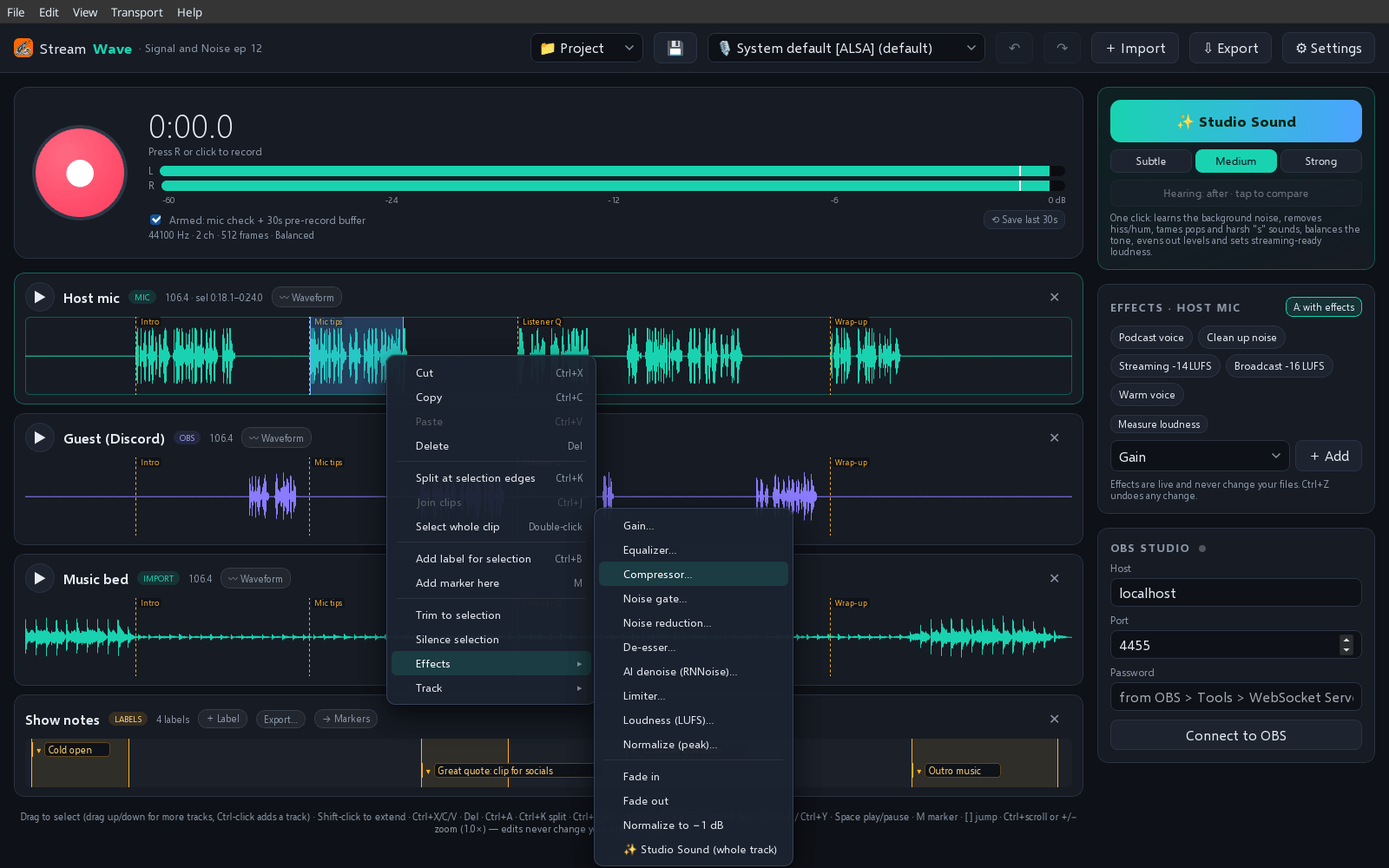
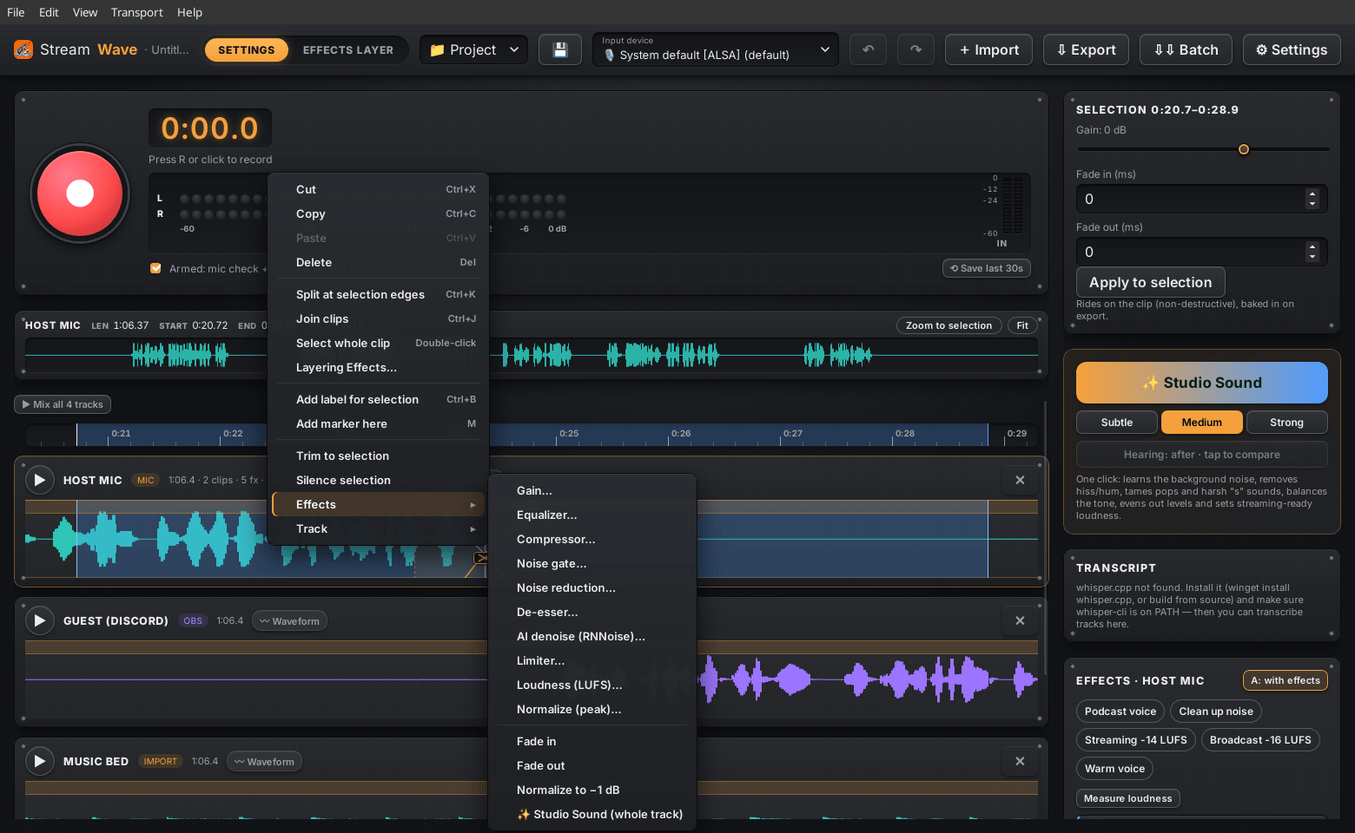
0.11.0: version bump; CHANGELOG, README, GUIDE and site for the new look, ruler, preview, Effects Layer workspace and crossfades (with limits); new screenshots

Changed region(s): [[0.0, 0.0312, 0.9846, 1.0], [0.0, 0.0, 0.2769, 0.0938], [0.3077, 0.0312, 0.3385, 0.0625]]

diff --git a/docs/index.html b/docs/index.html
@@ -177,12 +177,15 @@
     <div class="card"><div class="ico">🎥</div><h3>OBS sync</h3><p>Record, pause and stop together. Scene changes become markers. Multi-track OBS recordings import as separate tracks.</p></div>
     <div class="card"><div class="ico">🪄</div><h3>Studio Sound</h3><p>One click analyses your voice and builds a clean chain: denoise, EQ, de-ess, compress, -16 LUFS. Fully editable.</p></div>
     <div class="card"><div class="ico">⏪</div><h3>Never miss a take</h3><p>A rolling buffer keeps the last 60 seconds. Said something great before hitting record? Save it.</p></div>
-    <div class="card"><div class="ico">🎛</div><h3>Live effects</h3><p>Move a slider and hear it instantly. Exports use the same engine, so the file matches what you heard.</p></div>
+    <div class="card"><div class="ico">🎛</div><h3>Live effects</h3><p>Turn a knob and hear it instantly. Exports use the same engine, so the file matches what you heard.</p></div>
     <div class="card"><div class="ico">🛟</div><h3>Crash-safe recording</h3><p>Takes are written continuously and repaired after a crash or power cut. Unplugged mic? Your take is kept.</p></div>
     <div class="card"><div class="ico">📦</div><h3>All open formats</h3><p>WAV, FLAC, MP3, Ogg, Opus, AAC, AIFF and audio from MP4/MKV in. WAV, FLAC, MP3, Opus, Ogg and more out, with tags.</p></div>
     <div class="card"><div class="ico">🤝</div><h3>Shared mic, always</h3><p>Never takes exclusive control of your microphone. OBS, Discord and your browser keep working alongside.</p></div>
     <div class="card"><div class="ico">🩺</div><h3>Live mic check</h3><p>Warnings for clipping, too quiet, a dead channel or mains hum, before they ruin a recording.</p></div>
     <div class="card"><div class="ico">✂</div><h3>Non-destructive editing</h3><p>Cut, copy, paste with full undo. Originals never change. Projects autosave and recover after a crash.</p></div>
+    <div class="card"><div class="ico">🧩</div><h3>Effects Layer workspace <small>new in 0.11</small></h3><p>A big effects editor: the track's effects and the clip's layers in a collapsible list, colour-coded modules with knobs.</p></div>
+    <div class="card"><div class="ico">🔀</div><h3>Crossfades <small>new in 0.11</small></h3><p>Blend neighbouring clips at a cut, equal power or linear, without moving anything. Plus drag-to-fade handles.</p></div>
+    <div class="card"><div class="ico">📏</div><h3>Ruler &amp; preview <small>new in 0.11</small></h3><p>A zoom-aware time ruler and a preview of the whole track with Zoom to selection. All in a new hardware look.</p></div>
     <div class="card"><div class="ico">📥</div><h3>Multi-file import <small>new in 0.10</small></h3><p>Drop several files at once: put them one after another on a track, or one track each, lined up. One undo.</p></div>
     <div class="card"><div class="ico">↔</div><h3>Move clips <small>new in 0.10</small></h3><p>Drag clips along the timeline or onto another track, with a ghost, snapping and an exact time readout. No drift.</p></div>
     <div class="card"><div class="ico">◧</div><h3>Layering Effects <small>new in 0.10</small></h3><p>Give one clip its own effect stack. Reorder, bypass and edit the layers, heard live and exported identically.</p></div>
@@ -198,36 +201,48 @@
 
 <section id="shots" class="shots"><div class="wrap">
   <h2>See it in action</h2>
-  <p class="sub">Real screenshots of StreamWave 0.8.3 on Linux, with a demo podcast episode (self-generated voice and music).</p>
+  <p class="sub">Real screenshots of StreamWave 0.11.0 on Linux, with a demo podcast episode (self-generated voice and music).</p>
   <figure class="shot">
-    <a href="screenshots/01-main.png"><img src="screenshots/01-main.png" alt="StreamWave main window: the big record button with live input meters, a podcast episode with Host mic, Guest (Discord) and Music bed tracks, chapter markers, a Show notes label track, and the Studio Sound, effects and OBS panels on the right" width="1600" height="1000" loading="lazy" decoding="async"></a>
-    <figcaption><b>Record, edit, clean up.</b> One big button to record with live meters, a multi-track timeline with markers and a label track for show notes, and Studio Sound, live effects and OBS sync one glance away.</figcaption>
+    <a href="screenshots/01-main.png"><img src="screenshots/01-main.png" alt="StreamWave main window in the new hardware look: the big record button in a bezel with LED input meters, the selected-audio preview strip, a time ruler with chapter markers, Host mic, Guest (Discord) and Music bed tracks with a crossfade at a cut, and the Effects rack with colour-coded modules on the right" width="1560" height="960" loading="lazy" decoding="async"></a>
+    <figcaption><b>Record, edit, clean up.</b> One big button to record with LED meters, a preview of the selected audio, a time ruler over a multi-track timeline with markers and crossfades, and Studio Sound, live effects and OBS sync one glance away.</figcaption>
   </figure>
   <div class="carousel" role="region" aria-roledescription="carousel" aria-label="More StreamWave screenshots">
     <button class="cbtn prev" type="button" aria-label="Previous screenshot">‹</button>
     <div class="track" tabindex="0" aria-label="Screenshots, scroll sideways for more">
-      <figure class="shot" role="group" aria-roledescription="slide" aria-label="1 of 6">
-        <a href="screenshots/02-context-menu.png"><img src="screenshots/02-context-menu.png" alt="Right-click menu on a selection in the Host mic track, with the Effects submenu open listing Gain, Equalizer, Compressor, Noise gate, Noise reduction, De-esser, AI denoise, Limiter, Loudness, Normalize, fades and Studio Sound" width="1600" height="1000" loading="lazy" decoding="async"></a>
-        <figcaption><b>Right-click anything.</b> Cut, split, label or apply an effect straight to the selection.</figcaption>
+      <figure class="shot" role="group" aria-roledescription="slide" aria-label="1 of 9">
+        <a href="screenshots/08-effects-layer.png"><img src="screenshots/08-effects-layer.png" alt="Effects Layer workspace: a list of the Host mic track's effects and the clip's layers on the left, a signal-flow strip, and the Equalizer module with colour-coded knobs for low cut, shelves and three bands" width="1560" height="960" loading="lazy" decoding="async"></a>
+        <figcaption><b>Effects Layer workspace.</b> Every effect of the track and the clip under the cursor, with big colour-coded knobs, heard live.</figcaption>
       </figure>
-      <figure class="shot" role="group" aria-roledescription="slide" aria-label="2 of 6">
-        <a href="screenshots/03-spectrogram.png"><img src="screenshots/03-spectrogram.png" alt="Host mic and Guest tracks switched to spectrogram view, zoomed in, showing speech harmonics and a low hum band, with chapter markers above" width="1600" height="1000" loading="lazy" decoding="async"></a>
-        <figcaption><b>Spectrogram view.</b> Spot hum, hiss and plosives at a glance, with a log or linear scale.</figcaption>
+      <figure class="shot" role="group" aria-roledescription="slide" aria-label="2 of 9">
+        <a href="screenshots/09-crossfade.png"><img src="screenshots/09-crossfade.png" alt="Zoomed timeline with a crossfade between two Host mic clips: the fade curves drawn across the cut and the crossfade panel open with a Length knob at 1252 ms, the curve set to Equal power and a Remove crossfade button" width="1560" height="960" loading="lazy" decoding="async"></a>
+        <figcaption><b>Crossfades.</b> Drag or click the handle at a cut: equal power or linear, centred on the cut, plays exactly as it exports.</figcaption>
       </figure>
-      <figure class="shot" role="group" aria-roledescription="slide" aria-label="3 of 6">
-        <a href="screenshots/04-effects.png"><img src="screenshots/04-effects.png" alt="Effects panel for the Host mic track after choosing the Podcast voice preset: Equalizer, Noise gate, Compressor (expanded, with threshold, ratio, attack, release and makeup sliders), Loudness and Limiter" width="1600" height="1000" loading="lazy" decoding="async"></a>
+      <figure class="shot" role="group" aria-roledescription="slide" aria-label="3 of 9">
+        <a href="screenshots/02-context-menu.png"><img src="screenshots/02-context-menu.png" alt="Right-click menu on a selection in the Host mic track, with the Effects submenu open listing Gain, Equalizer, Compressor, Noise gate, Noise reduction, De-esser, AI denoise, Limiter, Loudness, Normalize, fades and Studio Sound" width="1560" height="960" loading="lazy" decoding="async"></a>
+        <figcaption><b>Right-click anything.</b> Cut, split, label, open Layering Effects or apply an effect straight to the selection.</figcaption>
+      </figure>
+      <figure class="shot" role="group" aria-roledescription="slide" aria-label="4 of 9">
+        <a href="screenshots/10-effect-dialog.png"><img src="screenshots/10-effect-dialog.png" alt="Compressor dialog for a selection with knobs for threshold, ratio, attack, release and makeup, and Apply, Add to track effects instead and Cancel buttons" width="1560" height="960" loading="lazy" decoding="async"></a>
+        <figcaption><b>Knobs, not sliders.</b> Drag, scroll or use the arrow keys; Shift for fine steps, double-click to reset.</figcaption>
+      </figure>
+      <figure class="shot" role="group" aria-roledescription="slide" aria-label="5 of 9">
+        <a href="screenshots/04-effects.png"><img src="screenshots/04-effects.png" alt="Effects rack for the Host mic track after choosing the Podcast voice preset: Equalizer, Noise gate, Compressor (expanded, with threshold, ratio, attack, release and makeup knobs), Loudness and Limiter, each in its own colour" width="1560" height="960" loading="lazy" decoding="async"></a>
         <figcaption><b>Live effects chain.</b> One-click presets build an editable chain you hear instantly while it plays.</figcaption>
       </figure>
-      <figure class="shot" role="group" aria-roledescription="slide" aria-label="4 of 6">
-        <a href="screenshots/05-aup3-import.png"><img src="screenshots/05-aup3-import.png" alt="Summary dialog after importing an Audacity project: 3 tracks (3 clips) and 4 labels imported as markers, a note about pan, where the audio was copied, and confirmation that the .aup3 file was not changed" width="1600" height="1000" loading="lazy" decoding="async"></a>
-        <figcaption><b>Bring your Audacity projects.</b> Tracks and labels come across from .aup3; your original file is only read.</figcaption>
+      <figure class="shot" role="group" aria-roledescription="slide" aria-label="6 of 9">
+        <a href="screenshots/03-spectrogram.png"><img src="screenshots/03-spectrogram.png" alt="Host mic and Guest tracks switched to spectrogram view with a log frequency scale, showing speech harmonics, with chapter markers and the time ruler above" width="1560" height="960" loading="lazy" decoding="async"></a>
+        <figcaption><b>Spectrogram view.</b> Spot hum, hiss and plosives at a glance, with a log or linear scale.</figcaption>
       </figure>
-      <figure class="shot" role="group" aria-roledescription="slide" aria-label="5 of 6">
-        <a href="screenshots/06-export.png"><img src="screenshots/06-export.png" alt="Export panel for the Host mic track with the format list open: WAV, FLAC, WavPack, Matroska audio, MP3, Ogg Vorbis, Opus, WebM (Opus) and Speex" width="1600" height="1000" loading="lazy" decoding="async"></a>
+      <figure class="shot" role="group" aria-roledescription="slide" aria-label="7 of 9">
+        <a href="screenshots/05-aup3-import.png"><img src="screenshots/05-aup3-import.png" alt="Summary dialog after importing an Audacity project: 3 tracks (3 clips) and 4 labels imported as markers, a note about pan, where the audio was copied, and confirmation that the .aup3 file was not changed" width="1600" height="1000" loading="lazy" decoding="async"></a>
+        <figcaption><b>Bring your Audacity projects.</b> Tracks and labels come across from .aup3; your original file is only read. <small>(0.8.3 screenshot)</small></figcaption>
+      </figure>
+      <figure class="shot" role="group" aria-roledescription="slide" aria-label="8 of 9">
+        <a href="screenshots/06-export.png"><img src="screenshots/06-export.png" alt="Export panel for the Host mic track with the format list open: WAV, FLAC, WavPack, Matroska audio, MP3, Ogg Vorbis, Opus, WebM (Opus) and Speex" width="1560" height="960" loading="lazy" decoding="async"></a>
         <figcaption><b>Export to open formats.</b> WAV, FLAC, WavPack, MP3, Ogg, Opus, WebM and more, with tags.</figcaption>
       </figure>
-      <figure class="shot" role="group" aria-roledescription="slide" aria-label="6 of 6">
-        <a href="screenshots/07-about.png"><img src="screenshots/07-about.png" alt="About StreamWave dialog: version 0.8.3, created by Del (postmanpat), a Buy me a coffee button, PayPal and YouTube links, Check for updates and the GitHub link" width="1600" height="1000" loading="lazy" decoding="async"></a>
+      <figure class="shot" role="group" aria-roledescription="slide" aria-label="9 of 9">
+        <a href="screenshots/07-about.png"><img src="screenshots/07-about.png" alt="About StreamWave dialog: version 0.11.0, created by Del (postmanpat), a Buy me a coffee button, PayPal and YouTube links, Check for updates and the GitHub link" width="1560" height="960" loading="lazy" decoding="async"></a>
         <figcaption><b>Free and open source.</b> Made by Del (postmanpat), MIT licensed, with a Buy me a coffee button if it saves you time.</figcaption>
       </figure>
     </div>
@@ -281,7 +296,7 @@
 
 <section id="download" class="dl"><div class="wrap">
   <h2>Get StreamWave</h2>
-  <p class="sub">Version 0.10.0 for Windows, Linux and macOS. On Windows and the Linux AppImage the app updates itself from Help → Check for updates; on Mac and with the Linux packages, it tells you about new versions and you install them by hand.</p>
+  <p class="sub">Version 0.11.0 for Windows, Linux and macOS. On Windows and the Linux AppImage the app updates itself from Help → Check for updates; on Mac and with the Linux packages, it tells you about new versions and you install them by hand.</p>
   <div class="dlbox">
     <div class="card"><div class="ico">🪟</div><h3>Windows 10 / 11</h3><p>NSIS installer, per-user, FFmpeg included. Updates itself.</p><p class="req">64-bit Windows 10 or 11</p><br><a class="btn primary" href="https://github.com/postmanpat-303/StreamWave/releases/latest">Download .exe</a></div>
     <div class="card"><div class="ico">🐧</div><h3>Linux</h3><p><b>.deb</b> for Debian/Ubuntu/Mint, <b>.rpm</b> for Fedora/openSUSE, <b>.pkg.tar.zst</b> for Arch/CachyOS/Manjaro, or the <b>AppImage</b> for any distro (the AppImage updates itself). Install FFmpeg from your package manager.</p><p class="req">64-bit (x86_64), PipeWire, PulseAudio or JACK</p><br><a class="btn primary" href="https://github.com/postmanpat-303/StreamWave/releases/latest">Download for Linux</a></div>
@@ -289,7 +304,7 @@
   </div>
   <div class="firstrun">
     <p>🛡 <b>Windows:</b> the installer isn't code-signed yet. If SmartScreen appears, click <b>More info → Run anyway</b>.</p>
-    <p>🐧 <b>Linux install:</b> <code>sudo apt install ./StreamWave-0.10.0-linux-x86_64.deb</code> · <code>sudo dnf install ./StreamWave-0.10.0-linux-x86_64.rpm</code> · <code>sudo pacman -U ./StreamWave-0.10.0-linux-x86_64.pkg.tar.zst</code> · or <code>chmod +x</code> the AppImage and run it. Package installs update by installing the new package; the app tells you when there is one.</p>
+    <p>🐧 <b>Linux install:</b> <code>sudo apt install ./StreamWave-0.11.0-linux-x86_64.deb</code> · <code>sudo dnf install ./StreamWave-0.11.0-linux-x86_64.rpm</code> · <code>sudo pacman -U ./StreamWave-0.11.0-linux-x86_64.pkg.tar.zst</code> · or <code>chmod +x</code> the AppImage and run it. Package installs update by installing the new package; the app tells you when there is one.</p>
     <p>🍎 <b>Mac, first launch:</b> drag StreamWave into Applications. It isn't notarised by Apple yet, so the first time <b>right-click (or Control-click) the app, choose Open</b>, then Open again. On newer macOS (Sequoia 15+), go to <b>System Settings → Privacy &amp; Security</b> and click <b>Open Anyway</b>. After that it opens normally. To update, download the new .dmg and replace the app in Applications.</p>
   </div>
 </div></section>

diff --git a/README.md b/README.md
@@ -38,7 +38,7 @@
 </p>
 
 <p align="center">
-  <a href="assets/screenshots/01-main.png"><img src="assets/screenshots/01-main.png" alt="StreamWave main window: the big record button with live input meters, a podcast episode with Host mic, Guest (Discord) and Music bed tracks, chapter markers, a Show notes label track, and the Studio Sound, effects and OBS panels on the right" width="100%"></a>
+  <a href="assets/screenshots/01-main.png"><img src="assets/screenshots/01-main.png" alt="StreamWave main window in the new hardware look: the big record button in a bezel with LED input meters, the selected-audio preview strip, a time ruler with chapter markers, Host mic, Guest (Discord) and Music bed tracks with a crossfade at a cut, and the Effects rack with colour-coded modules on the right" width="100%"></a>
 </p>
 
 ## ▶ Watch the promo
@@ -79,24 +79,35 @@ Most audio editors were designed for studios twenty years ago. StreamWave is bui
 | 📥 **Multi-file import** *(new in 0.10.0)* | Import or drop several files at once and choose: **one after another on one track** (each starting exactly where the last ends, at the cursor or 0:00) or **one track per file**, all lined up. Mixed formats and sample rates are fine, Cancel changes nothing, and one Ctrl+Z undoes it all. |
 | ↔ **Move clips** *(new in 0.10.0)* | Drag a clip by its title bar along the timeline or onto another track, even past the end. Ghost, target highlight and exact time readout while dragging; snaps to markers, clip edges and the cursor (Alt = free). Overlapping audio is refused. Positions are whole samples, so nothing drifts. |
 | ◧ **Layering Effects** *(new in 0.10.0)* | Give a single clip its own stack of effects: add, bypass, edit and drag (or Alt+↑/↓) to reorder. The list order is the processing order, running before the clip's gain/fades and the track effects. Each clip owns its stack; copies and split pieces get their own. Heard live, exported identically. |
+| 🎛 **New hardware look** *(new in 0.11.0)* | Dark brushed panels, knurled knobs with an amber tick ring, LED meters, pill buttons and LED toggles. Every effect has its own colour, and the rack, Layering Effects and effect dialogs all use knobs (drag, scroll or arrow keys; Shift = fine; double-click resets). |
+| 📏 **Timeline ruler & preview** *(new in 0.11.0)* | A zoom-aware time ruler above the tracks with playhead, selection and markers (click or drag to move the cursor), and a preview strip of the whole track with START/END/SEL readouts, **Zoom to selection** and **Fit**. |
+| 🧩 **Effects Layer workspace** *(new in 0.11.0)* | Switch the side panel to a big effects editor: a collapsible list of the track's effects and the current clip's layers, the signal flow, and colour-coded modules with large knobs, heard live. **Settings** brings the classic panel back as it was. |
+| 🔀 **Crossfades & fade handles** *(new in 0.11.0)* | Drag a clip's corner to fade it, or the ⨯ handle at a cut to crossfade two neighbouring clips (equal power or linear, length knob). Centred on the cut using spare audio, so nothing moves; plays exactly as it exports. Limits: neighbouring clips only, no master bus. |
 | 🎧 **Virtual output hint** *(new in 0.9.0)* | StreamWave recognises virtual audio devices (VB-CABLE, VoiceMeeter, BlackHole on Mac) in the output list and explains how to send its sound into OBS, Discord or Zoom. The user guide has the setup steps. |
 
 ## 📸 Screenshots
 
-*Real screenshots of StreamWave 0.8.3 on Linux, using a demo episode with self-generated voice and music. Click any image for full size.*
+*Real screenshots of StreamWave 0.11.0 on Linux (the Audacity import one is from 0.8.3), using a demo episode with self-generated voice and music. Click any image for full size.*
 
 <table>
 <tr>
-<td width="50%" valign="top"><a href="assets/screenshots/02-context-menu.png"><img src="assets/screenshots/02-context-menu.png" alt="Right-click menu on a selection in the Host mic track, with the Effects submenu open listing Gain, Equalizer, Compressor, Noise gate, Noise reduction, De-esser, AI denoise, Limiter, Loudness, Normalize, fades and Studio Sound" width="100%"></a><br><b>Right-click anything.</b> Cut, split, label or apply an effect straight to the selection.</td>
-<td width="50%" valign="top"><a href="assets/screenshots/03-spectrogram.png"><img src="assets/screenshots/03-spectrogram.png" alt="Host mic and Guest tracks switched to spectrogram view, zoomed in, showing speech harmonics and a low hum band, with chapter markers above" width="100%"></a><br><b>Spectrogram view.</b> Spot hum, hiss and plosives at a glance, with a log or linear scale.</td>
+<td width="50%" valign="top"><a href="assets/screenshots/08-effects-layer.png"><img src="assets/screenshots/08-effects-layer.png" alt="Effects Layer workspace: a list of the Host mic track's effects and the clip's layers on the left, a signal-flow strip, and the Equalizer module with colour-coded knobs for low cut, shelves and three bands"></a><br><b>Effects Layer workspace.</b> Every effect of the track and the clip under the cursor, with big colour-coded knobs, heard live.</td>
+<td width="50%" valign="top"><a href="assets/screenshots/09-crossfade.png"><img src="assets/screenshots/09-crossfade.png" alt="Zoomed timeline with a crossfade between two Host mic clips: the fade curves drawn across the cut and the crossfade panel open with a Length knob at 1252 ms, the curve set to Equal power and a Remove crossfade button"></a><br><b>Crossfades.</b> Drag or click the handle at a cut: equal power or linear, centred on the cut, plays exactly as it exports.</td>
 </tr>
 <tr>
-<td width="50%" valign="top"><a href="assets/screenshots/04-effects.png"><img src="assets/screenshots/04-effects.png" alt="Effects panel for the Host mic track after choosing the Podcast voice preset: Equalizer, Noise gate, Compressor (expanded, with threshold, ratio, attack, release and makeup sliders), Loudness and Limiter" width="100%"></a><br><b>Live effects chain.</b> One-click presets build an editable chain that you hear instantly while it plays.</td>
-<td width="50%" valign="top"><a href="assets/screenshots/05-aup3-import.png"><img src="assets/screenshots/05-aup3-import.png" alt="Summary dialog after importing an Audacity project: 3 tracks (3 clips) and 4 labels imported as markers, a note about pan, where the audio was copied, and confirmation that the .aup3 file was not changed" width="100%"></a><br><b>Bring your Audacity projects.</b> <code>.aup3</code> tracks and labels come across; your original file is only read.</td>
+<td width="50%" valign="top"><a href="assets/screenshots/02-context-menu.png"><img src="assets/screenshots/02-context-menu.png" alt="Right-click menu on a selection in the Host mic track, with the Effects submenu open listing Gain, Equalizer, Compressor, Noise gate, Noise reduction, De-esser, AI denoise, Limiter, Loudness, Normalize, fades and Studio Sound"></a><br><b>Right-click anything.</b> Cut, split, label, open Layering Effects or apply an effect straight to the selection.</td>
+<td width="50%" valign="top"><a href="assets/screenshots/10-effect-dialog.png"><img src="assets/screenshots/10-effect-dialog.png" alt="Compressor dialog for a selection with knobs for threshold, ratio, attack, release and makeup, and Apply, Add to track effects instead and Cancel buttons"></a><br><b>Knobs, not sliders.</b> Drag, scroll or use the arrow keys; Shift for fine steps, double-click to reset.</td>
 </tr>
 <tr>
-<td width="50%" valign="top"><a href="assets/screenshots/06-export.png"><img src="assets/screenshots/06-export.png" alt="Export panel for the Host mic track with the format list open: WAV, FLAC, WavPack, Matroska audio, MP3, Ogg Vorbis, Opus, WebM (Opus) and Speex" width="100%"></a><br><b>Export to open formats.</b> WAV, FLAC, WavPack, MP3, Ogg, Opus, WebM and more, with tags.</td>
-<td width="50%" valign="top"><a href="assets/screenshots/07-about.png"><img src="assets/screenshots/07-about.png" alt="About StreamWave dialog: version 0.8.3, created by Del (postmanpat), a Buy me a coffee button, PayPal and YouTube links, Check for updates and the GitHub link" width="100%"></a><br><b>Free and open source.</b> Made by Del (postmanpat). If it saves you time, <a href="https://buymeacoffee.com/postmanpat">buy me a coffee</a> ☕</td>
+<td width="50%" valign="top"><a href="assets/screenshots/04-effects.png"><img src="assets/screenshots/04-effects.png" alt="Effects rack for the Host mic track after choosing the Podcast voice preset: Equalizer, Noise gate, Compressor (expanded, with threshold, ratio, attack, release and makeup knobs), Loudness and Limiter, each in its own colour"></a><br><b>Live effects chain.</b> One-click presets build an editable chain you hear instantly while it plays.</td>
+<td width="50%" valign="top"><a href="assets/screenshots/03-spectrogram.png"><img src="assets/screenshots/03-spectrogram.png" alt="Host mic and Guest tracks switched to spectrogram view with a log frequency scale, showing speech harmonics, with chapter markers and the time ruler above"></a><br><b>Spectrogram view.</b> Spot hum, hiss and plosives at a glance, with a log or linear scale.</td>
+</tr>
+<tr>
+<td width="50%" valign="top"><a href="assets/screenshots/05-aup3-import.png"><img src="assets/screenshots/05-aup3-import.png" alt="Summary dialog after importing an Audacity project: 3 tracks (3 clips) and 4 labels imported as markers, a note about pan, where the audio was copied, and confirmation that the .aup3 file was not changed"></a><br><b>Bring your Audacity projects.</b> Tracks and labels come across from .aup3; your original file is only read. <small>(0.8.3 screenshot)</small></td>
+<td width="50%" valign="top"><a href="assets/screenshots/06-export.png"><img src="assets/screenshots/06-export.png" alt="Export panel for the Host mic track with the format list open: WAV, FLAC, WavPack, Matroska audio, MP3, Ogg Vorbis, Opus, WebM (Opus) and Speex"></a><br><b>Export to open formats.</b> WAV, FLAC, WavPack, MP3, Ogg, Opus, WebM and more, with tags.</td>
+</tr>
+<tr>
+<td width="50%" valign="top"><a href="assets/screenshots/07-about.png"><img src="assets/screenshots/07-about.png" alt="About StreamWave dialog: version 0.11.0, created by Del (postmanpat), a Buy me a coffee button, PayPal and YouTube links, Check for updates and the GitHub link"></a><br><b>Free and open source.</b> Made by Del (postmanpat), MIT licensed, with a Buy me a coffee button if it saves you time.</td>
 </tr>
 </table>
 
@@ -115,7 +126,7 @@ Most audio editors were designed for studios twenty years ago. StreamWave is bui
 3. **SmartScreen:** the installer isn't code-signed yet, so Windows may say *"Windows protected your PC"*. Click **More info → Run anyway**.
 
 ### Linux (x86_64)
-Pick the package for your distro from the [latest release](https://github.com/postmanpat-303/StreamWave/releases/latest) (`<version>` is e.g. `0.10.0`):
+Pick the package for your distro from the [latest release](https://github.com/postmanpat-303/StreamWave/releases/latest) (`<version>` is e.g. `0.11.0`):
 
 | Distro | File | Install |
 |---|---|---|
@@ -174,7 +185,8 @@ Optional cargo features: `asio` (Steinberg ASIO on Windows) and `jack` (Linux). 
 - [ ] **Voice / music separation**: pull your voice out of a stream recording with game audio or music
 - [ ] **Auto-chapters**: chapter markers from topic changes and OBS scenes, exported to YouTube timestamps
 - [ ] **VST3 / CLAP plugin hosting**: use your favourite plugins in the live chain
-- [ ] Multi-track mixdown export, crossfades and overlapping clips
+- [ ] Multi-track mixdown export, free overlapping clips (3+ stacked), a master/output effect bus
+- [x] Hardware-style look, timeline ruler, selected-audio preview, Effects Layer workspace, crossfades (0.11.0)
 - [x] Multi-file import arrangement, clip moving across tracks, per-clip Layering Effects (0.10.0)
 - [x] In-app update check (0.6.0)
 - [x] Audacity 3 (`.aup3`) project import (0.7.0)
@@ -204,7 +216,7 @@ The Windows installer includes it. On Linux, install it from your distro. On Mac
 
 **Can StreamWave replace Audacity?**
 If you've used Audacity, you'll feel at home, with live effects, OBS sync and recordings that survive a crash.
-For recording, cleaning up and editing voice, podcasts and stream audio, it can be all you need. It is not a full replacement, though. Audacity has many years of features StreamWave doesn't have: plug-in effects (VST, LV2, Nyquist), spectral editing (StreamWave shows a spectrogram but doesn't edit in it), macros, MIDI and a much larger set of built-in effects and analysis tools. StreamWave can select and edit several tracks together, move clips between them (0.10.0) and play them as a mix (0.9.0), but it exports one track at a time rather than mixing down a full multitrack session.
+For recording, cleaning up and editing voice, podcasts and stream audio, it can be all you need. It is not a full replacement, though. Audacity has many years of features StreamWave doesn't have: plug-in effects (VST, LV2, Nyquist), spectral editing (StreamWave shows a spectrogram but doesn't edit in it), macros, MIDI and a much larger set of built-in effects and analysis tools. StreamWave can select and edit several tracks together, move clips between them (0.10.0), crossfade neighbouring clips (0.11.0) and play them as a mix (0.9.0), but it exports one track at a time rather than mixing down a full multitrack session.
 You can bring existing work across: **File → Import Audacity Project…** (or drag an `.aup3` onto the window) reads Audacity 3 projects. Tracks, names, clip positions and trims, the audio itself (16-bit, 24-bit and 32-bit float), track gain, pan, mute and solo, clip envelopes and labels (as markers) come across. Audacity effects and note/time tracks are skipped, and StreamWave tells you exactly what it left out. Your `.aup3` file is opened read-only and never changed; the audio is copied into WAV files next to your StreamWave project (or into your recordings folder under *Audacity imports* if the project isn't saved yet).
 *Audacity® is a trademark of its respective owners. StreamWave is an independent project and isn't affiliated with or endorsed by Audacity or Muse Group. The importer was written from scratch and contains no Audacity code.*
 

diff --git a/GUIDE.md b/GUIDE.md
@@ -50,6 +50,11 @@ Tracks are lists of **clips** that point into the source files using start/end o
 | Delete selection | Del or Backspace |
 | Move a clip | drag its **title bar** (the strip with its name) along the track or onto another track; Alt = no snapping, Esc cancels |
 | Layering Effects | the **◧** button on a clip's title bar, or right-click the clip → **Layering Effects…** |
+| Move the cursor / seek | click or drag on the **time ruler** above the tracks, or in the **preview strip**; with the ruler focused ←/→ step (Shift = bigger), Home/End |
+| Zoom to the selection | **Zoom to selection** in the preview strip (**Fit** shows everything) |
+| Fade a clip in/out | drag the small square at the clip's top-left / top-right corner |
+| Crossfade two clips | drag the **⨯** handle at the bottom of the cut outwards, or click it for length, curve and remove |
+| Switch workspace | **Settings / Effects Layer** in the header |
 | Select all (every track) | Ctrl+A |
 | Undo / Redo | Ctrl+Z / Ctrl+Y or Ctrl+Shift+Z (full command history, 500 steps) |
 | Play / Pause | Space (plays the selection if there is one, otherwise from the cursor) |
@@ -72,7 +77,7 @@ Tests: `npm test` (edit model, effects chain, project files) and `cargo test` in
 ## Effects (non-destructive, live)
 Each track has an **effect chain** that is saved as settings only. It runs **live during playback**: slider moves, bypass and A/B are heard within ~0.1 s with no restart. Export uses the same engine, so the exported file matches what you heard. Effects are never baked into the source files.
 Effects: Gain, Equalizer (low cut, low shelf, 3 bands, high shelf), Compressor, Noise gate, Noise reduction (learns from a selection of background noise), Normalize (peak), Loudness (target LUFS, EBU R128), Fade in/out, Limiter.
-The side panel has sliders, on/off (bypass) toggles, up/down to reorder, and an **A/B** button to hear the original. One-click presets: *Podcast voice, Clean up noise, Streaming -14 LUFS, Broadcast -16 LUFS, Warm voice*.
+The side panel has a rack of colour-coded effect modules with **knobs**, on/off (bypass) LED toggles, up/down to reorder, and an **A/B** button to hear the original. For a bigger editor, switch to the **Effects Layer** workspace (see below). **Knobs:** drag up/right (or scroll, or use the arrow keys) to turn, **Shift** for fine steps, double-click or Delete to reset; each knob shows its value and range. One-click presets: *Podcast voice, Clean up noise, Streaming -14 LUFS, Broadcast -16 LUFS, Warm voice*.
 Every change can be undone with Ctrl+Z. "Measure loudness" shows the processed track's LUFS.
 Zoom: Ctrl+scroll or `+` / `-` (1-12x, scroll sideways).
 
@@ -150,6 +155,29 @@ Click **◧** on a clip's title bar (the number shows how many layers are on), o
 - **Each clip owns its layers.** Copy/paste gives the copy its own stack, and splitting a clip gives each piece its own copy. Changing one never changes another.
 - Changes are heard live while the track plays, and export renders through the same code. Each change is one undo step.
 - Projects using clip layers or free clip positions are saved as `.twt` version 2. Older StreamWave versions decline to open them rather than mis-reading them.
+
+## Timeline ruler and preview
+- The **ruler** above the tracks scrolls with them and picks its steps from the zoom level (m:ss, or h:mm:ss on long projects). It shows the playhead, cursor, selection and markers. Click or drag on it to move the cursor; while playing, that seeks.
+- The **preview strip** under the recorder shows the whole active track with the selection, the playhead and a box for the part of the timeline in view, plus LEN / START / END / SEL readouts. Click to move the cursor, drag to select, **Zoom to selection** to make the selection fill the timeline, **Fit** to see everything.
+- There is no bars/beats ruler: projects have no tempo.
+
+## Effects Layer workspace
+The **Settings | Effects Layer** switch in the header swaps the side panel for a large effects editor. Switching back brings the Settings panel back exactly as it was; neither the project nor playback is touched.
+- **Left list**: the active track's effects (*Track*) and the layers of the clip under the cursor (*Clip*), in processing order. Click an entry to edit it. « collapses the list to a narrow strip of coloured dots and » expands it again; on small windows it collapses by itself and opens over the editor.
+- **Signal flow** at the top: clip layers → clip gain/fades → track effects → mix.
+- **Module**: the selected effect with large knobs in its own colour, an on/off LED, run earlier/later and remove.
+- At the bottom: add a track effect or a clip layer, and the track presets.
+- Track-effect knobs are heard live while you turn them (one undo step when you let go). Clip-layer changes are applied when you let go. It is the same data as the rack and the ◧ panel, so nothing is processed twice.
+
+## Fades and crossfades
+- **Fades**: drag the small square at a clip's top-left (fade-in) or top-right (fade-out) corner. The fade shape is drawn over the waveform. Older projects keep their S-curve fades.
+- **Crossfades** blend two neighbouring clips at a cut. Drag the **⨯** handle at the bottom of the cut outwards to set the length, or click it for a panel with a **Length** knob, the **Curve** and **Remove crossfade**:
+  - **Equal power**: for different material (keeps the loudness steady through the blend).
+  - **Linear**: for the same material or room tone.
+- A crossfade is centred on the cut and uses the audio just beyond each clip's edge, so nothing on the timeline moves. If there is no spare audio (two whole files back to back), the clips are made to overlap by the missing amount: later audio moves earlier, and a message says by how much.
+- Playback, the mix and export use the same render code, so a crossfade sounds the same everywhere. Split, join, undo/redo, save and reopen keep it; a cut or move that changes which clip it fades from removes it.
+- Projects with crossfades or non-default fade shapes are saved as `.twt` version 3; StreamWave 0.10 and older refuse those with a clear message.
+- **Limits**: crossfades only between neighbouring clips on one track (no stacking of three or more clips); no master/output effect bus; Normalize/Loudness clip layers on a crossfaded clip measure the extra crossfade audio too; playing a selection that starts inside a crossfade skips the first part of the fade.
 
 ## Editing extras
 - **✂ Silences** (on a track): scans for pauses below the noise floor + 8 dB (min 250 ms, with 80 ms padding so word tails survive). Review the count, then **Trim N silences** cuts them in one undoable step.

diff --git a/CHANGELOG.md b/CHANGELOG.md
@@ -2,6 +2,48 @@
 
 All notable changes to StreamWave are documented here. The format is loosely based on [Keep a Changelog](https://keepachangelog.com/).
 
+## 0.11.0 (2026-10-20)
+
+### New look
+- **Hardware-style design**: dark brushed panels with screws, knurled rotary knobs with an orange tick ring, LED level meters, pill buttons, captioned dropdowns and LED on/off toggles. Labels are uppercase and the accent colour is amber. The app stays dark and keeps the whale logo, every shortcut and every setting.
+- **Knobs everywhere you shape sound**: the effects rack, Layering Effects and the effect dialogs use knobs instead of sliders. Drag up/right (or scroll, or use the arrow keys) to turn, hold **Shift** for fine steps, double-click or press Delete to reset. Each knob shows its value and range; bipolar ones (EQ gains) light up from the centre. Each change is still one undo step.
+- **Colour per effect**: every effect type has its own colour (EQ blue, gate violet, compressor pink, loudness amber, limiter orange…), used in the rack, the layer list and the new workspace.
+- **Meters**: the input meter is an LED row with a dB scale, plus a vertical level meter. The timecode uses an LED-style display, and the record button sits in a bezel.
+
+### Timeline ruler
+- A **time ruler** above the tracks scrolls with them and adapts its steps to the zoom level (m:ss, or h:mm:ss on long projects). It shows the playhead, cursor, selection and markers.
+- **Click or drag on the ruler** to move the cursor (it seeks while playing). With the ruler focused, ←/→ step (Shift = bigger steps), Home/End jump to the start/end.
+
+### Selected-audio preview
+- A **preview strip** under the recorder shows the whole active track, the selection, the playhead and the part of the timeline currently in view, with LEN / START / END / SEL readouts.
+- Click to move the cursor, drag to select. **Zoom to selection** makes the selection fill the timeline; **Fit** shows everything.
+
+### Effects Layer workspace
+- A **Settings | Effects Layer** switch in the header. **Effects Layer** replaces the side panel with a large effects editor; **Settings** brings the classic panel back exactly as it was. Switching never touches the project or playback.
+- **Left effects list**: the active track's effects and the layers of the clip under the cursor, in processing order. Click one to edit it. The list collapses to a narrow strip (« / ») and does so automatically on small windows.
+- A **signal-flow strip** shows the full order: clip layers → clip gain/fades → track effects → mix.
+- The selected effect opens as a **colour-coded module** with big knobs, an on/off LED, run earlier/later and remove. Add track effects or clip layers, and use the track presets, from the same place.
+- Turning a track-effect knob is heard live while playing. It is the same data as the rack and the ◧ panel, so nothing is applied twice.
+
+### Fades and crossfades
+- **Fade handles**: drag the small square at a clip's top-left or top-right corner to set its fade-in or fade-out. The fade's shape is drawn over the waveform.
+- **Crossfades between neighbouring clips**: drag the small ⨯ handle at the bottom of a cut outwards, or click it for a small panel with a **Length** knob, the **Curve** (Equal power for different material, Linear for the same material or room tone) and **Remove crossfade**.
+- A crossfade is centred on the cut and uses the audio just beyond each clip's edge, so nothing on the timeline moves. When there is no spare audio there (two whole files back to back), the clips are made to overlap by the missing amount: later audio moves earlier, and StreamWave tells you so.
+- Playback, the mix and export all use the same render code, and a test checks that a crossfade plays exactly as it exports. Split, join, undo/redo, save and reopen keep crossfades. A cut or move that changes which clip a crossfade fades from removes it.
+
+### Projects
+- Projects that use crossfades or non-default fade shapes are saved as `.twt` **format version 3**. StreamWave 0.10 and older refuse them with "made by a newer StreamWave" instead of opening them wrongly. Projects without them still save as version 1 or 2, and every older `.twt` still opens and sounds the same.
+
+### Fixes
+- The crossfade handle sits above the overlay scrollbar used on Linux, so clicking it on a zoomed timeline no longer scrolls the view.
+
+### Limits (honest list)
+- Crossfades only work between **neighbouring clips on one track**; there is no free stacking of three or more clips.
+- There is no master/output effect bus: the mix is the sum of the tracks after their effects.
+- The ruler shows time only. There is no bars/beats ruler because projects have no tempo.
+- Normalize and Loudness *clip layers* on a crossfaded clip measure the clip including the extra audio used by the crossfade.
+- Playing a selection that starts inside a crossfade plays the incoming clip without the first part of the fade.
+
 ## 0.10.0 (2026-10-20)
 
 ### Importing several files at once

diff --git a/docs/dev/edit-model.md b/docs/dev/edit-model.md
@@ -72,7 +72,7 @@ How tracks, clips, samples, markers, projects and effects fit together (state as
   refuse them with "made by a newer StreamWave" instead of failing on an empty source path. Projects without
   them are still written as version 1.
 
-## Restyle branch additions (crossfades, effect levels, workspaces)
+## 0.11.0 additions (crossfades, effect levels, workspaces)
 
 ### Where each effect applies
 | Level | Edited in | Runs | Notes |
